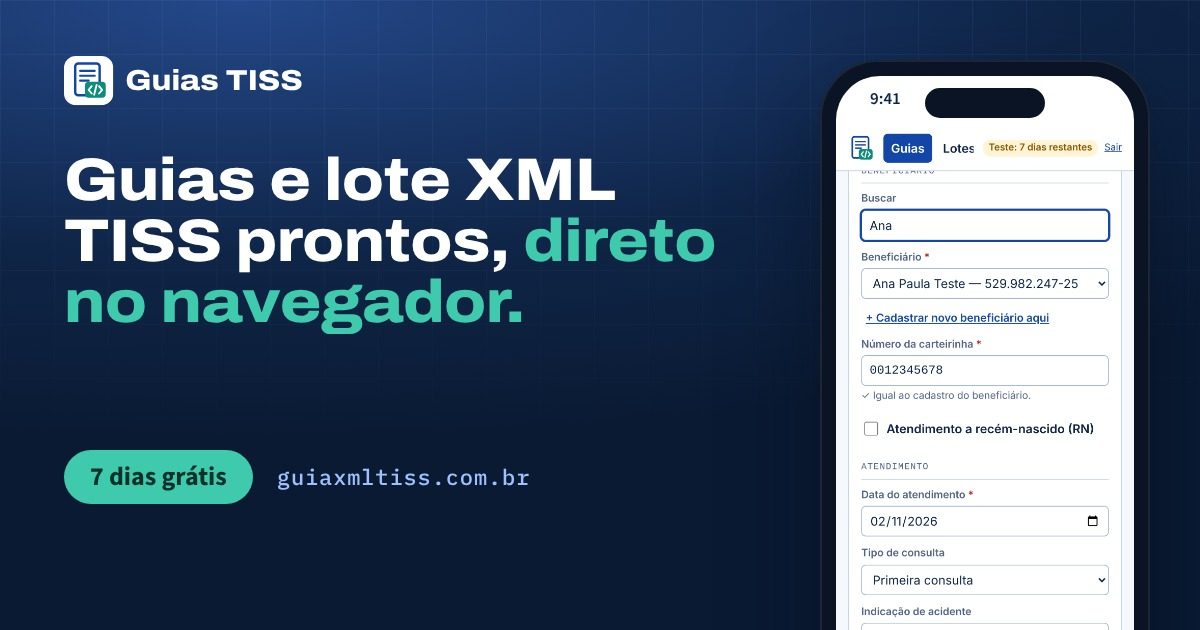
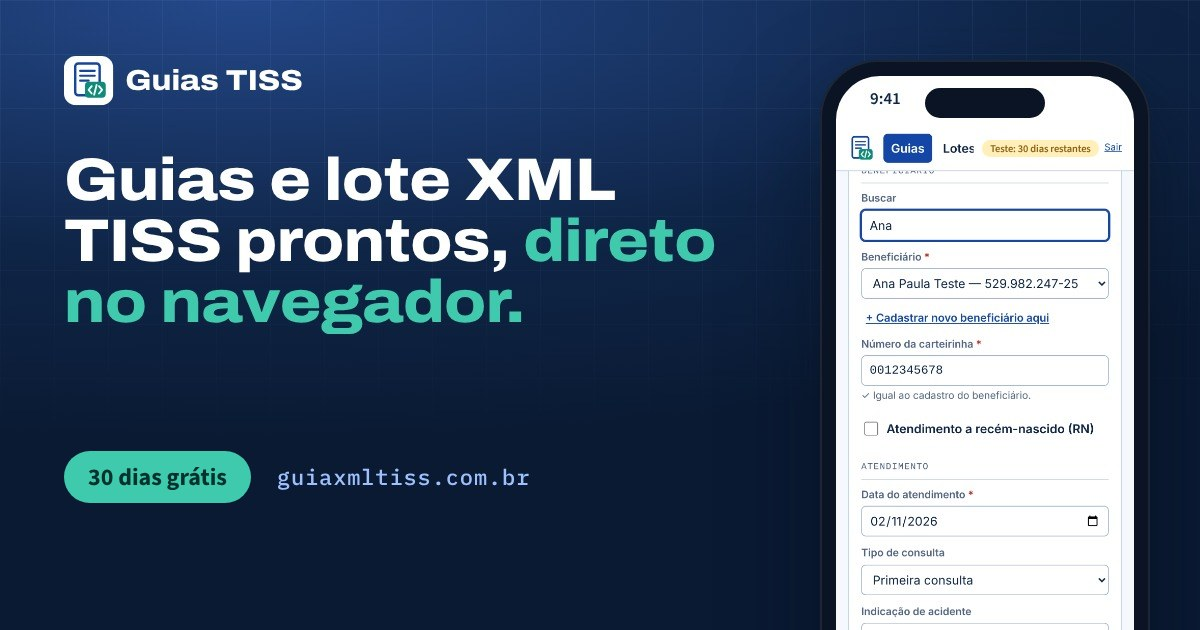
Teste grátis passa de 7 para 30 dias (#15)
Claude-Session: https://claude.ai/code/session_018d8H8XEcBgHqxE77qzQ4j5

Changed region(s): [[0.0617, 0.6937, 0.2158, 0.8143], [0.8017, 0.2111, 0.925, 0.2714]]

diff --git a/como-evitar-glosas.html b/como-evitar-glosas.html
@@ -10,14 +10,14 @@
   <meta property="og:title" content="Como evitar glosas por erro de preenchimento nas guias TISS">
   <meta property="og:description" content="Veja os erros de preenchimento que mais geram glosa nas guias de convênio e uma lista de conferência simples para reduzir o retrabalho no faturamento.">
   <meta property="og:url" content="https://guiaxmltiss.com.br/como-evitar-glosas.html">
-  <meta property="og:image" content="https://guiaxmltiss.com.br/assets/guias-tiss-compartilhar.jpg">
+  <meta property="og:image" content="https://guiaxmltiss.com.br/assets/guias-tiss-compartilhar.jpg?v=2">
   <meta name="twitter:card" content="summary_large_image">
   <link rel="icon" href="assets/favicon.svg" type="image/svg+xml">
   <link rel="preconnect" href="https://fonts.googleapis.com">
   <link rel="preconnect" href="https://fonts.gstatic.com" crossorigin>
   <link href="https://fonts.googleapis.com/css2?family=Fraunces:opsz,wght@9..144,600;9..144,700&family=Inter:wght@400;500;600&display=swap" rel="stylesheet">
   <link rel="stylesheet" href="css/style.css?v=4">
-  <script type="application/ld+json">[{"@context": "https://schema.org", "@type": "Article", "headline": "Como evitar glosas por erro de preenchimento nas guias TISS", "description": "Veja os erros de preenchimento que mais geram glosa nas guias de convênio e uma lista de conferência simples para reduzir o retrabalho no faturamento.", "datePublished": "2026-11-03", "dateModified": "2026-11-03", "inLanguage": "pt-BR", "mainEntityOfPage": "https://guiaxmltiss.com.br/como-evitar-glosas.html", "author": {"@type": "Organization", "name": "Remasol Fature"}, "publisher": {"@type": "Organization", "name": "Remasol Fature", "logo": {"@type": "ImageObject", "url": "https://guiaxmltiss.com.br/assets/logo.svg"}}, "image": "https://guiaxmltiss.com.br/assets/guias-tiss-compartilhar.jpg"}, {"@context": "https://schema.org", "@type": "FAQPage", "mainEntity": [{"@type": "Question", "name": "Toda glosa pode ser recuperada?", "acceptedAnswer": {"@type": "Answer", "text": "Não. Glosas causadas por erro de preenchimento muitas vezes podem ser corrigidas e reapresentadas; glosas indevidas podem ser contestadas por recurso, dentro do prazo do convênio."}}, {"@type": "Question", "name": "Quem define o prazo para enviar as guias?", "acceptedAnswer": {"@type": "Answer", "text": "O contrato entre o prestador e a operadora. Confira no contrato ou no manual do prestador."}}, {"@type": "Question", "name": "Usar um programa elimina as glosas?", "acceptedAnswer": {"@type": "Answer", "text": "Não elimina, mas reduz os erros de digitação e ajuda a conferir os dados antes do envio. A responsabilidade pelas informações continua sendo de quem emite a guia."}}]}]</script>
+  <script type="application/ld+json">[{"@context": "https://schema.org", "@type": "Article", "headline": "Como evitar glosas por erro de preenchimento nas guias TISS", "description": "Veja os erros de preenchimento que mais geram glosa nas guias de convênio e uma lista de conferência simples para reduzir o retrabalho no faturamento.", "datePublished": "2026-11-03", "dateModified": "2026-11-03", "inLanguage": "pt-BR", "mainEntityOfPage": "https://guiaxmltiss.com.br/como-evitar-glosas.html", "author": {"@type": "Organization", "name": "Remasol Fature"}, "publisher": {"@type": "Organization", "name": "Remasol Fature", "logo": {"@type": "ImageObject", "url": "https://guiaxmltiss.com.br/assets/logo.svg"}}, "image": "https://guiaxmltiss.com.br/assets/guias-tiss-compartilhar.jpg?v=2"}, {"@context": "https://schema.org", "@type": "FAQPage", "mainEntity": [{"@type": "Question", "name": "Toda glosa pode ser recuperada?", "acceptedAnswer": {"@type": "Answer", "text": "Não. Glosas causadas por erro de preenchimento muitas vezes podem ser corrigidas e reapresentadas; glosas indevidas podem ser contestadas por recurso, dentro do prazo do convênio."}}, {"@type": "Question", "name": "Quem define o prazo para enviar as guias?", "acceptedAnswer": {"@type": "Answer", "text": "O contrato entre o prestador e a operadora. Confira no contrato ou no manual do prestador."}}, {"@type": "Question", "name": "Usar um programa elimina as glosas?", "acceptedAnswer": {"@type": "Answer", "text": "Não elimina, mas reduz os erros de digitação e ajuda a conferir os dados antes do envio. A responsabilidade pelas informações continua sendo de quem emite a guia."}}]}]</script>
 </head>
 <body>
   <header class="topo">
@@ -73,7 +73,7 @@
       <h2>Menos digitação, menos chance de erro</h2>
       <p>O Guias TISS preenche a carteirinha a partir do cadastro do paciente, usa os valores da tabela de cada convênio e avisa quando falta um dado obrigatório. Se preferir, a Remasol faz o faturamento por você no serviço Faturista.</p>
       <div class="cta-artigo__botoes">
-        <a class="botao" href="guias-tiss/entrar.html#criar">Testar grátis por 7 dias</a>
+        <a class="botao" href="guias-tiss/entrar.html#criar">Testar grátis por 30 dias</a>
         <a class="botao botao--contorno" href="#" data-whatsapp="Olá! Li o artigo no site e quero saber mais do Guias TISS.">Falar no WhatsApp</a>
       </div>
     </aside>

diff --git a/guia-sp-sadt.html b/guia-sp-sadt.html
@@ -10,14 +10,14 @@
   <meta property="og:title" content="Guia SP/SADT: o que é, quando usar e como preencher">
   <meta property="og:description" content="Entenda a guia SP/SADT do Padrão TISS: para que serve, a diferença para a guia de consulta e os campos que mais causam erro no preenchimento.">
   <meta property="og:url" content="https://guiaxmltiss.com.br/guia-sp-sadt.html">
-  <meta property="og:image" content="https://guiaxmltiss.com.br/assets/guias-tiss-compartilhar.jpg">
+  <meta property="og:image" content="https://guiaxmltiss.com.br/assets/guias-tiss-compartilhar.jpg?v=2">
   <meta name="twitter:card" content="summary_large_image">
   <link rel="icon" href="assets/favicon.svg" type="image/svg+xml">
   <link rel="preconnect" href="https://fonts.googleapis.com">
   <link rel="preconnect" href="https://fonts.gstatic.com" crossorigin>
   <link href="https://fonts.googleapis.com/css2?family=Fraunces:opsz,wght@9..144,600;9..144,700&family=Inter:wght@400;500;600&display=swap" rel="stylesheet">
   <link rel="stylesheet" href="css/style.css?v=4">
-  <script type="application/ld+json">[{"@context": "https://schema.org", "@type": "Article", "headline": "Guia SP/SADT: o que é, quando usar e como preencher", "description": "Entenda a guia SP/SADT do Padrão TISS: para que serve, a diferença para a guia de consulta e os campos que mais causam erro no preenchimento.", "datePublished": "2026-11-03", "dateModified": "2026-11-03", "inLanguage": "pt-BR", "mainEntityOfPage": "https://guiaxmltiss.com.br/guia-sp-sadt.html", "author": {"@type": "Organization", "name": "Remasol Fature"}, "publisher": {"@type": "Organization", "name": "Remasol Fature", "logo": {"@type": "ImageObject", "url": "https://guiaxmltiss.com.br/assets/logo.svg"}}, "image": "https://guiaxmltiss.com.br/assets/guias-tiss-compartilhar.jpg"}, {"@context": "https://schema.org", "@type": "FAQPage", "mainEntity": [{"@type": "Question", "name": "Posso colocar vários procedimentos na mesma guia SP/SADT?", "acceptedAnswer": {"@type": "Answer", "text": "Sim. A SP/SADT permite listar vários procedimentos, cada um com código, quantidade e valor."}}, {"@type": "Question", "name": "A guia SP/SADT precisa de autorização?", "acceptedAnswer": {"@type": "Answer", "text": "Depende do procedimento e do convênio. Muitos exames e terapias exigem autorização prévia (senha); consulte o manual da operadora."}}, {"@type": "Question", "name": "Qual tabela uso no código do procedimento?", "acceptedAnswer": {"@type": "Answer", "text": "Para procedimentos, em geral a tabela 22 (TUSS – Procedimentos e eventos em saúde). Materiais, medicamentos e taxas usam outras tabelas."}}]}]</script>
+  <script type="application/ld+json">[{"@context": "https://schema.org", "@type": "Article", "headline": "Guia SP/SADT: o que é, quando usar e como preencher", "description": "Entenda a guia SP/SADT do Padrão TISS: para que serve, a diferença para a guia de consulta e os campos que mais causam erro no preenchimento.", "datePublished": "2026-11-03", "dateModified": "2026-11-03", "inLanguage": "pt-BR", "mainEntityOfPage": "https://guiaxmltiss.com.br/guia-sp-sadt.html", "author": {"@type": "Organization", "name": "Remasol Fature"}, "publisher": {"@type": "Organization", "name": "Remasol Fature", "logo": {"@type": "ImageObject", "url": "https://guiaxmltiss.com.br/assets/logo.svg"}}, "image": "https://guiaxmltiss.com.br/assets/guias-tiss-compartilhar.jpg?v=2"}, {"@context": "https://schema.org", "@type": "FAQPage", "mainEntity": [{"@type": "Question", "name": "Posso colocar vários procedimentos na mesma guia SP/SADT?", "acceptedAnswer": {"@type": "Answer", "text": "Sim. A SP/SADT permite listar vários procedimentos, cada um com código, quantidade e valor."}}, {"@type": "Question", "name": "A guia SP/SADT precisa de autorização?", "acceptedAnswer": {"@type": "Answer", "text": "Depende do procedimento e do convênio. Muitos exames e terapias exigem autorização prévia (senha); consulte o manual da operadora."}}, {"@type": "Question", "name": "Qual tabela uso no código do procedimento?", "acceptedAnswer": {"@type": "Answer", "text": "Para procedimentos, em geral a tabela 22 (TUSS – Procedimentos e eventos em saúde). Materiais, medicamentos e taxas usam outras tabelas."}}]}]</script>
 </head>
 <body>
   <header class="topo">
@@ -73,7 +73,7 @@
       <h2>Emita guias SP/SADT no modelo da ANS</h2>
       <p>No Guias TISS, os dados do prestador, da carteirinha e dos valores do convênio entram sozinhos. Você confere, imprime para o paciente assinar e depois gera o lote XML.</p>
       <div class="cta-artigo__botoes">
-        <a class="botao" href="guias-tiss/entrar.html#criar">Testar grátis por 7 dias</a>
+        <a class="botao" href="guias-tiss/entrar.html#criar">Testar grátis por 30 dias</a>
         <a class="botao botao--contorno" href="#" data-whatsapp="Olá! Li o artigo no site e quero saber mais do Guias TISS.">Falar no WhatsApp</a>
       </div>
     </aside>

diff --git a/como-gerar-lote-xml-tiss.html b/como-gerar-lote-xml-tiss.html
@@ -10,14 +10,14 @@
   <meta property="og:title" content="Como gerar o lote XML TISS: passo a passo">
   <meta property="og:description" content="Entenda o que é o lote XML no Padrão TISS da ANS e veja, passo a passo, como gerar o arquivo das guias do mês para enviar no portal do convênio.">
   <meta property="og:url" content="https://guiaxmltiss.com.br/como-gerar-lote-xml-tiss.html">
-  <meta property="og:image" content="https://guiaxmltiss.com.br/assets/guias-tiss-compartilhar.jpg">
+  <meta property="og:image" content="https://guiaxmltiss.com.br/assets/guias-tiss-compartilhar.jpg?v=2">
   <meta name="twitter:card" content="summary_large_image">
   <link rel="icon" href="assets/favicon.svg" type="image/svg+xml">
   <link rel="preconnect" href="https://fonts.googleapis.com">
   <link rel="preconnect" href="https://fonts.gstatic.com" crossorigin>
   <link href="https://fonts.googleapis.com/css2?family=Fraunces:opsz,wght@9..144,600;9..144,700&family=Inter:wght@400;500;600&display=swap" rel="stylesheet">
   <link rel="stylesheet" href="css/style.css?v=4">
-  <script type="application/ld+json">[{"@context": "https://schema.org", "@type": "Article", "headline": "Como gerar o lote XML TISS: passo a passo", "description": "Entenda o que é o lote XML no Padrão TISS da ANS e veja, passo a passo, como gerar o arquivo das guias do mês para enviar no portal do convênio.", "datePublished": "2026-11-03", "dateModified": "2026-11-03", "inLanguage": "pt-BR", "mainEntityOfPage": "https://guiaxmltiss.com.br/como-gerar-lote-xml-tiss.html", "author": {"@type": "Organization", "name": "Remasol Fature"}, "publisher": {"@type": "Organization", "name": "Remasol Fature", "logo": {"@type": "ImageObject", "url": "https://guiaxmltiss.com.br/assets/logo.svg"}}, "image": "https://guiaxmltiss.com.br/assets/guias-tiss-compartilhar.jpg"}, {"@context": "https://schema.org", "@type": "FAQPage", "mainEntity": [{"@type": "Question", "name": "Posso misturar guias de convênios diferentes no mesmo lote?", "acceptedAnswer": {"@type": "Answer", "text": "Não. Cada lote é enviado para uma operadora, então ele reúne guias de um único convênio."}}, {"@type": "Question", "name": "Qual versão do Padrão TISS devo usar?", "acceptedAnswer": {"@type": "Answer", "text": "A que o convênio indicar no portal ou no manual do prestador. Na dúvida, pergunte à operadora antes de enviar."}}, {"@type": "Question", "name": "O que é o hash no final do arquivo?", "acceptedAnswer": {"@type": "Answer", "text": "É um código calculado a partir do conteúdo do lote. A operadora recalcula e compara: se o arquivo foi alterado, o hash não confere e o lote é recusado."}}]}]</script>
+  <script type="application/ld+json">[{"@context": "https://schema.org", "@type": "Article", "headline": "Como gerar o lote XML TISS: passo a passo", "description": "Entenda o que é o lote XML no Padrão TISS da ANS e veja, passo a passo, como gerar o arquivo das guias do mês para enviar no portal do convênio.", "datePublished": "2026-11-03", "dateModified": "2026-11-03", "inLanguage": "pt-BR", "mainEntityOfPage": "https://guiaxmltiss.com.br/como-gerar-lote-xml-tiss.html", "author": {"@type": "Organization", "name": "Remasol Fature"}, "publisher": {"@type": "Organization", "name": "Remasol Fature", "logo": {"@type": "ImageObject", "url": "https://guiaxmltiss.com.br/assets/logo.svg"}}, "image": "https://guiaxmltiss.com.br/assets/guias-tiss-compartilhar.jpg?v=2"}, {"@context": "https://schema.org", "@type": "FAQPage", "mainEntity": [{"@type": "Question", "name": "Posso misturar guias de convênios diferentes no mesmo lote?", "acceptedAnswer": {"@type": "Answer", "text": "Não. Cada lote é enviado para uma operadora, então ele reúne guias de um único convênio."}}, {"@type": "Question", "name": "Qual versão do Padrão TISS devo usar?", "acceptedAnswer": {"@type": "Answer", "text": "A que o convênio indicar no portal ou no manual do prestador. Na dúvida, pergunte à operadora antes de enviar."}}, {"@type": "Question", "name": "O que é o hash no final do arquivo?", "acceptedAnswer": {"@type": "Answer", "text": "É um código calculado a partir do conteúdo do lote. A operadora recalcula e compara: se o arquivo foi alterado, o hash não confere e o lote é recusado."}}]}]</script>
 </head>
 <body>
   <header class="topo">
@@ -75,7 +75,7 @@
       <h2>Gere o lote XML em poucos cliques</h2>
       <p>O Guias TISS monta as guias no modelo da ANS e gera o lote no Padrão TISS 4.01, 4.02 ou 4.03, com o hash calculado, direto no navegador.</p>
       <div class="cta-artigo__botoes">
-        <a class="botao" href="guias-tiss/entrar.html#criar">Testar grátis por 7 dias</a>
+        <a class="botao" href="guias-tiss/entrar.html#criar">Testar grátis por 30 dias</a>
         <a class="botao botao--contorno" href="#" data-whatsapp="Olá! Li o artigo no site e quero saber mais do Guias TISS.">Falar no WhatsApp</a>
       </div>
     </aside>

diff --git a/index.html b/index.html
@@ -9,10 +9,10 @@
   <meta property="og:type" content="website">
   <meta property="og:title" content="Guias TISS — guias e lote XML TISS sem instalar nada">
   <meta property="og:description" content="Emita guias de consulta e SP/SADT e gere o lote XML no Padrão TISS direto no navegador.">
-  <meta property="og:image" content="https://guiaxmltiss.com.br/assets/guias-tiss-compartilhar.jpg">
+  <meta property="og:image" content="https://guiaxmltiss.com.br/assets/guias-tiss-compartilhar.jpg?v=2">
   <meta property="og:image:width" content="1200">
   <meta property="og:image:height" content="630">
-  <meta property="og:image:alt" content="Guias TISS: guias e lote XML TISS prontos, direto no navegador. 7 dias grátis.">
+  <meta property="og:image:alt" content="Guias TISS: guias e lote XML TISS prontos, direto no navegador. 30 dias grátis.">
   <meta name="twitter:card" content="summary_large_image">
   <meta property="og:url" content="https://guiaxmltiss.com.br/">
   <link rel="canonical" href="https://guiaxmltiss.com.br/">
@@ -225,9 +225,9 @@
       <div class="container">
         <h2 class="secao__titulo produto-titulo-claro">Planos</h2>
         <p class="planos__intro">Há planos para consultório com 1 médico e para clínicas com vários médicos e convênios.<br>
-          Crie a sua conta, use <strong>7 dias grátis</strong> sem cartão e veja os planos e valores dentro do programa.</p>
+          Crie a sua conta, use <strong>30 dias grátis</strong> sem cartão e veja os planos e valores dentro do programa.</p>
         <p style="text-align:center;margin-top:24px">
-          <a href="guias-tiss/entrar.html#criar" class="botao">Testar 7 dias grátis</a>
+          <a href="guias-tiss/entrar.html#criar" class="botao">Testar 30 dias grátis</a>
         </p>
         <article class="plano plano--extra">
           <div>

diff --git a/guias-tiss/entrar.html b/guias-tiss/entrar.html
@@ -4,7 +4,7 @@
   <meta charset="utf-8">
   <meta name="viewport" content="width=device-width, initial-scale=1">
   <title>Entrar | Guias TISS</title>
-  <meta name="description" content="Entre ou crie sua conta no Guias TISS e teste grátis por 7 dias.">
+  <meta name="description" content="Entre ou crie sua conta no Guias TISS e teste grátis por 30 dias.">
   <link rel="icon" href="img/icone.svg" type="image/svg+xml">
   <link rel="preconnect" href="https://fonts.googleapis.com">
   <link rel="preconnect" href="https://fonts.gstatic.com" crossorigin>
@@ -47,7 +47,7 @@
 
         <!-- CRIAR CONTA -->
         <form id="form-criar" class="entrar__form" data-painel="criar" novalidate hidden>
-          <h1>Teste grátis por <span class="js-dias-teste">7</span> dias</h1>
+          <h1>Teste grátis por <span class="js-dias-teste">30</span> dias</h1>
           <p class="entrar__sub">Sem cartão. Depois do teste, assine para continuar.</p>
           <label for="c-nome">Seu nome</label>
           <input id="c-nome" type="text" autocomplete="name" required>
@@ -83,7 +83,7 @@
     <a class="entrar__voltar" href="../index.html">← Conhecer o Guias TISS</a>
   </main>
 
-  <script src="js/firebase-config.js?v=10"></script>
+  <script src="js/firebase-config.js?v=11"></script>
   <script src="js/firebase-carregar.js?v=5"></script>
   <script src="js/entrar.js?v=4"></script>
 </body>

diff --git a/termos.html b/termos.html
@@ -114,7 +114,7 @@
 
     <h2>9. Período grátis, planos e pagamento</h2>
     <ul>
-      <li>Toda conta nova tem <strong>7 dias grátis</strong>, sem cartão. Ao fim do período, o acesso é bloqueado até a contratação de um plano. Os dados não são apagados.</li>
+      <li>Toda conta nova tem <strong>30 dias grátis</strong>, sem cartão. Ao fim do período, o acesso é bloqueado até a contratação de um plano. Os dados não são apagados.</li>
       <li>Os planos e preços aparecem na sua conta, depois de entrar em guiaxmltiss.com.br. Cada plano tem limites de médicos e de convênios.</li>
       <li>A assinatura é mensal, paga pelo Mercado Pago e <strong>renovada automaticamente</strong> até ser cancelada.</li>
       <li>Você pode <strong>cancelar quando quiser</strong>, no Mercado Pago ou falando com a Remasol. O acesso continua até o fim do período já pago, e não há devolução proporcional de meses já iniciados, respeitado o direito de arrependimento previsto em lei.</li>

diff --git a/conteudos.html b/conteudos.html
@@ -10,7 +10,7 @@
   <meta property="og:title" content="Conteúdos sobre faturamento de convênios">
   <meta property="og:description" content="Artigos práticos sobre lote XML TISS, guia SP/SADT e como evitar glosas no faturamento de convênios.">
   <meta property="og:url" content="https://guiaxmltiss.com.br/conteudos.html">
-  <meta property="og:image" content="https://guiaxmltiss.com.br/assets/guias-tiss-compartilhar.jpg">
+  <meta property="og:image" content="https://guiaxmltiss.com.br/assets/guias-tiss-compartilhar.jpg?v=2">
   <meta name="twitter:card" content="summary_large_image">
   <link rel="icon" href="assets/favicon.svg" type="image/svg+xml">
   <link rel="preconnect" href="https://fonts.googleapis.com">

diff --git a/guias-tiss/index.html b/guias-tiss/index.html
@@ -11,10 +11,10 @@
   <link rel="stylesheet" href="https://fonts.googleapis.com/css2?family=Archivo:wdth,wght@112,600;112,800&family=Source+Sans+3:wght@400;600;700&family=IBM+Plex+Mono:wght@400;500&display=swap">
   <link rel="stylesheet" href="css/estilo.css?v=9">
   <link rel="stylesheet" href="css/entrar.css?v=9">
-  <script src="js/firebase-config.js?v=10"></script>
+  <script src="js/firebase-config.js?v=11"></script>
   <script src="js/firebase-carregar.js?v=7"></script>
-  <script src="js/planos.js?v=8"></script>
-  <script src="js/acesso.js?v=14"></script>
+  <script src="js/planos.js?v=9"></script>
+  <script src="js/acesso.js?v=15"></script>
 </head>
 <body>
   <div class="layout">

diff --git a/guias-tiss/js/firebase-config.js b/guias-tiss/js/firebase-config.js
@@ -32,7 +32,7 @@ const TERMOS_VERSAO = '1.0'
 const AVISO_NOVA_CONTA_URL = 'https://formsubmit.co/ajax/remasolfaturetiss@gmail.com'
 
 // Dias de teste grátis contados a partir da criação da conta.
-const DIAS_TESTE = 7
+const DIAS_TESTE = 30
 
 // E-mails que entram no painel da Remasol (admin.html), onde você define o plano e o
 // valor do serviço Faturista de cada cliente. Precisa ser igual à lista em firestore.rules.

diff --git a/guias-tiss/js/acesso.js b/guias-tiss/js/acesso.js
@@ -20,7 +20,7 @@
   window.Assinatura = {
     cliente: function () { return cliente },
     limites: function () {
-      // No período grátis (7 dias) não há limite de médicos nem de convênios.
+      // No período grátis (30 dias) não há limite de médicos nem de convênios.
       if (!cliente || (cliente.status || 'teste') === 'teste') return null
       return Planos.limites(cliente)
     },

diff --git a/guias-tiss/admin.html b/guias-tiss/admin.html
@@ -27,9 +27,9 @@
 
   <div class="toast" id="toast" role="status" aria-live="polite"></div>
 
-  <script src="js/firebase-config.js?v=10"></script>
+  <script src="js/firebase-config.js?v=11"></script>
   <script src="js/firebase-carregar.js?v=5"></script>
-  <script src="js/planos.js?v=8"></script>
+  <script src="js/planos.js?v=9"></script>
   <script src="js/admin.js?v=6"></script>
 </body>
 </html>

diff --git a/guias-tiss/js/planos.js b/guias-tiss/js/planos.js
@@ -13,7 +13,7 @@ const Planos = (function () {
     { id: 'premium', nome: 'Clínica Premium', medicos: 10, convenios: 15, mensal: 510, link: 'https://mpago.la/2Vpnysw' }
   ]
 
-  const DIAS_GRATIS = 7
+  const DIAS_GRATIS = 30
 
   // Serviço extra: o valor é combinado com cada cliente e informado por você no
   // painel de administração. Ele pode incluir a plataforma ou ser somado ao plano.
